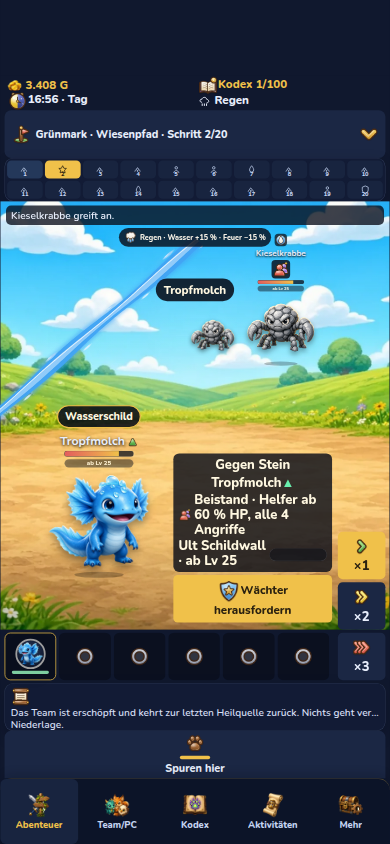
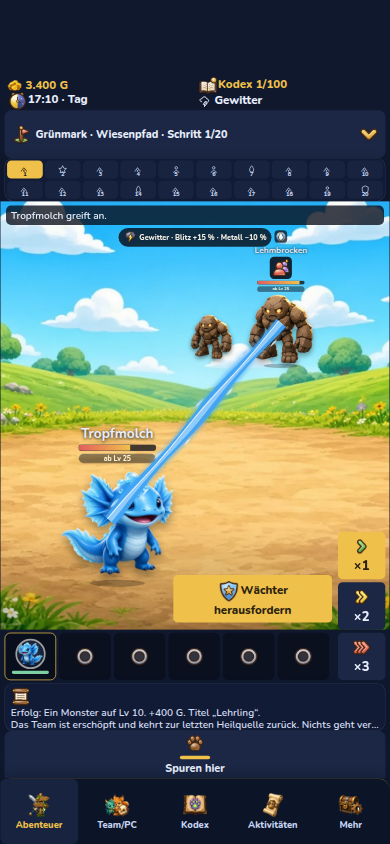
Kampf K7: Messung auf der Wächterstufe, Karte aus dem Kampf.
Die neue Stichprobe endet durch K.o., nicht an der Aktionsgrenze. Die Vorschau steht in eigenen Zeilen und bleibt während des Kampfes vom Feld.

diff --git a/src/adventure/mech.test.ts b/src/adventure/mech.test.ts
@@ -4,6 +4,7 @@ import { mulberry32 } from '../rng'
 import { fight1v1, type FightHit, type FightSide, type FightTrace } from './battle'
 import { ENCOUNTER_MS } from './const'
 import { assignMechs, councilAssignment, guardianAssignment, MECHS } from './mech'
+import { orderMods } from './order'
 import { regions } from './route'
 import { beginAdventure } from './save'
 import { monStats } from './stats'
@@ -124,41 +125,111 @@ describe('boss mechanics', () => {
   })
 })
 
-function sample(allyLevel: number, foeLevel: number, scale: number, mechs: FightSide['mechs'], trials: number): { wins: number; frames: number } {
-  let wins = 0
-  let frames = 0
-  for (let seed = 1; seed <= trials; seed++) {
-    const allyStats = monStats({ species: 'm02', lvl: allyLevel, exp: 0, hp: null, shiny: false, caughtAt: 0, caughtWhere: '', keepDupes: false })
-    const foeStats = monStats({ species: 'm17', lvl: foeLevel, exp: 0, hp: null, shiny: false, caughtAt: 0, caughtWhere: '', keepDupes: false })
-    const ally = side('m02', allyLevel, { maxHp: allyStats.hp, hp: allyStats.hp, atk: allyStats.atk, def: allyStats.def, spd: allyStats.spd, skill: species('m02').skill })
-    const foe = side('m17', foeLevel, {
-      maxHp: Math.round(foeStats.hp * scale),
-      hp: Math.round(foeStats.hp * scale),
-      atk: Math.round(foeStats.atk * scale),
-      def: Math.round(foeStats.def * scale),
-      spd: foeStats.spd,
-      skill: species('m17').skill,
-      boss: true,
-      mechs
-    })
-    const trace = fight1v1(ally, foe, mulberry32(seed), true)
-    if (trace.win) wins += 1
-    frames += trace.frames.length
+const SCALE = { hp: 1.4, atk: 1.34, def: 1.4 }
+const WARDEN = [
+  { species: 'm17', level: 7 },
+  { species: 'm04', level: 8 },
+  { species: 'm18', level: 10 }
+]
+
+function actor(id: string, level: number, scale = { hp: 1, atk: 1, def: 1 }, mechs?: FightSide['mechs'], hpFrac = 1): FightSide {
+  const sp = species(id)
+  const stats = monStats({ species: id, lvl: level, exp: 0, hp: null, shiny: false, caughtAt: 0, caughtWhere: '', keepDupes: false })
+  const maxHp = Math.max(1, Math.round(stats.hp * scale.hp))
+  return {
+    speciesId: id, name: sp.name, type: sp.type, maxHp,
+    hp: Math.max(1, Math.round(maxHp * (hpFrac > 0 ? hpFrac : 1))),
+    atk: Math.max(1, Math.round(stats.atk * scale.atk)),
+    def: Math.max(1, Math.round(stats.def * scale.def)),
+    spd: stats.spd, skill: sp.skill, passive: sp.passive ?? null, level,
+    boss: scale.hp !== 1 || Boolean(mechs?.length), mechs
   }
-  return { wins, frames }
+}
+
+function runBench(ids: string[], level: number, mechs: FightSide['mechs'], rng: () => number): { clear: boolean; bouts: Array<'win' | 'ko' | 'timeout'> } {
+  const alive = ids.map(() => true)
+  const bouts: Array<'win' | 'ko' | 'timeout'> = []
+  let foeIndex = 0
+  let fraction = 1
+  let afterKo = false
+  let guard = 0
+  while (foeIndex < WARDEN.length && guard < 24) {
+    guard += 1
+    const fighter = alive.findIndex(Boolean)
+    if (fighter < 0) return { clear: false, bouts }
+    const foe = WARDEN[foeIndex]
+    const seats = ids.map((id, index) => ({ uid: String(index), type: species(id).type, alive: alive[index] }))
+    const mods = orderMods(seats, String(fighter), species(foe.species).type, afterKo)
+    const ally = actor(ids[fighter], level)
+    ally.atk = Math.max(1, Math.round(ally.atk * mods.atkMul))
+    ally.def = Math.max(1, Math.round(ally.def * mods.defMul))
+    ally.counter = mods.counter
+    ally.anchor = mods.anchor
+    const trace = fight1v1(ally, actor(foe.species, foe.level, SCALE, mechs, fraction), rng, false)
+    const kind = bucket(trace)
+    bouts.push(kind)
+    const advance = kind === 'win' || (kind === 'timeout' && trace.win)
+    if (advance) {
+      foeIndex += 1
+      fraction = 1
+      afterKo = false
+    } else {
+      alive[fighter] = false
+      fraction = trace.foeMax > 0 ? Math.max(0.01, trace.foeHp / trace.foeMax) : 1
+      afterKo = true
+    }
+  }
+  return { clear: foeIndex >= WARDEN.length, bouts }
+}
+
+function bucket(trace: FightTrace): 'win' | 'ko' | 'timeout' {
+  if (trace.timeout) return 'timeout'
+  if (trace.win) return 'win'
+  return 'ko'
+}
+
+const BENCH = ['m66', 'm11', 'm14', 'm61', 'm03', 'm72']
+
+function tallyOne(mechs: FightSide['mechs'], trials: number): { win: number; ko: number; timeout: number } {
+  const out = { win: 0, ko: 0, timeout: 0 }
+  for (let seed = 1; seed <= trials; seed++) {
+    const trace = fight1v1(actor('m61', 12), actor('m17', 7, SCALE, mechs), mulberry32(seed), false)
+    out[bucket(trace)] += 1
+  }
+  return out
+}
+
+function tallyBench(mechs: FightSide['mechs'], trials: number): { sieg: number; ko: number; timeout: number } {
+  const out = { sieg: 0, ko: 0, timeout: 0 }
+  for (let seed = 1; seed <= trials; seed++) {
+    const run = runBench(BENCH, 12, mechs, mulberry32(seed))
+    if (run.bouts.some((kind) => kind === 'timeout')) out.timeout += 1
+    else if (run.clear) out.sieg += 1
+    else out.ko += 1
+  }
+  return out
 }
 
 describe('boss mechanic sample', () => {
-  it('records the close fight: Tropfmolch 25 against Kieselkrabbe 25 at scale 1.4', () => {
-    const trials = 200
-    const plain = sample(25, 25, 1.4, undefined, trials)
-    const rows = Object.fromEntries(MECHS.map((id) => [id, sample(25, 25, 1.4, [id], trials)]))
-    expect(plain.wins).toBe(78)
-    expect(plain.frames).toBe(6400)
-    expect(rows.panzerung).toEqual({ wins: 3, frames: 6400 })
-    expect(rows.wut).toEqual({ wins: 78, frames: 6400 })
-    expect(rows.beistand).toEqual({ wins: 52, frames: 6780 })
-    expect(rows.puls).toEqual({ wins: 41, frames: 6791 })
-    expect(rows.spiegel).toEqual({ wins: 9, frames: 6400 })
+  it('measures the cap fight and the ordered bench', () => {
+    const trials = 500
+    const one: Record<string, { win: number; ko: number; timeout: number }> = { none: tallyOne(undefined, trials) }
+    const bench: Record<string, { sieg: number; ko: number; timeout: number }> = { none: tallyBench(undefined, trials) }
+    for (const id of MECHS) {
+      one[id] = tallyOne([id], trials)
+      bench[id] = tallyBench([id], trials)
+    }
+    expect(one.none).toEqual({ win: 463, ko: 37, timeout: 0 })
+    expect(one.panzerung).toEqual({ win: 10, ko: 490, timeout: 0 })
+    expect(one.wut).toEqual({ win: 187, ko: 313, timeout: 0 })
+    expect(one.beistand).toEqual({ win: 454, ko: 46, timeout: 0 })
+    expect(one.puls).toEqual({ win: 379, ko: 121, timeout: 0 })
+    expect(one.spiegel).toEqual({ win: 24, ko: 476, timeout: 0 })
+    expect(bench.none).toEqual({ sieg: 500, ko: 0, timeout: 0 })
+    expect(bench.panzerung).toEqual({ sieg: 401, ko: 99, timeout: 0 })
+    expect(bench.wut).toEqual({ sieg: 499, ko: 1, timeout: 0 })
+    expect(bench.beistand).toEqual({ sieg: 500, ko: 0, timeout: 0 })
+    expect(bench.puls).toEqual({ sieg: 500, ko: 0, timeout: 0 })
+    expect(bench.spiegel).toEqual({ sieg: 500, ko: 0, timeout: 0 })
   })
 })

diff --git a/src/adventure/view.ts b/src/adventure/view.ts
@@ -47,7 +47,7 @@ import { fruitDef, fruitMinutes } from './shop'
 import { teamWeatherMarks, weatherArrow, weatherForecast, weatherName, WEATHER_SHIFTS, type WeatherId } from './weather'
 import { typeArrow } from './order'
 import { councilAssignment, guardianAssignment, mechIcon, mechName, mechTip, type MechId } from './mech'
-import { ultName, ultPattern, ultUnlocked } from './ult'
+import { ultName, ultPattern } from './ult'
 import { FACES, MULTIPLIERS, PRIZES, faceById, spinCost, wheelOpen, type Multiplier, type SymbolId } from './wheel'
 import { expToNext, isAlive, monStats, realHp } from './stats'
 import type { OfflineSummary } from './sim'
@@ -95,6 +95,8 @@ export type Overlay =
 export interface ShellFlags {
   mapOpen?: boolean
   moreOpen?: boolean
+  /** A fight is on screen. The preview card stays off the field. */
+  fighting?: boolean
   /** Scroll offset of the PC viewport, in logical px. */
   pcScroll?: number
   /** Measured PC viewport height. 0 uses the fallback. */
@@ -246,7 +248,7 @@ function path(save: SaveV2, here: number): string {
   return pathNodes(cells, false)
 }
 
-function battle(save: SaveV2, now: number): string {
+function battle(save: SaveV2, now: number, fighting = false): string {
   const chapter = chapterById(save.region, save.chapter)
   const scene = SCENE_FILES[chapter.scene]
   const active = save.active && save.mons[save.active] ? save.active : save.team[0]
@@ -300,7 +302,7 @@ function battle(save: SaveV2, now: number): string {
       <div class="wx-stack"><div class="wx-chip" id="wx-chip">${weatherChip(save, now)}</div></div>
       ${bossAhead(save) ? `<p class="wx-preview">${esc(weatherPreview(save, now))}</p>` : ''}
     </div>
-    ${sealed ? '' : `<div class="guard-dock">${guardCard(save)}<button type="button" class="primary challenge-fab" data-act="challenge">${ui('challenge')}${tr(save, chapter.council || chapter.foyer ? 'battle.resume' : 'battle.challenge')}</button></div>`}
+    ${sealed ? '' : `<div class="guard-dock">${fighting ? '' : guardCard(save)}<button type="button" class="primary challenge-fab" data-act="challenge">${ui('challenge')}${tr(save, chapter.council || chapter.foyer ? 'battle.resume' : 'battle.challenge')}</button></div>`}
   </div>`
 }
 
@@ -374,7 +376,7 @@ function guardCard(save: SaveV2): string {
   }).join('')
   const lead = bossLead(save)
   const preview = lead ? bossPreview(lead.speciesId, lead.level, lead.mechs) : ''
-  return `<div class="guard-card"><b>Gegen ${esc(typeName(foeType))}</b>${bits}${preview}</div>`
+  return `<div class="guard-card"><div class="guard-title">Gegen ${esc(typeName(foeType))}</div><div class="guard-names">${bits}</div>${preview}</div>`
 }
 
 function bossLead(save: SaveV2): { speciesId: string; level: number; mechs: MechId[] } | null {
@@ -397,12 +399,9 @@ function bossLead(save: SaveV2): { speciesId: string; level: number; mechs: Mech
   return { speciesId: lead.species, level: lead.level, mechs: guardianAssignment(chapter.guardian.badge, chapter.guardian.name, Boolean(chapter.special)) }
 }
 
-function bossPreview(speciesId: string, level: number, mechs: MechId[]): string {
-  const lines = mechs.map((id) => `<span class="mech-line"><img src="${art(mechIcon(id))}" alt=""/><span>${esc(mechName(id))} · ${esc(mechTip(id))}</span></span>`).join('')
-  const open = ultUnlocked(level)
-  const bar = `<span class="ult${open ? '' : ' is-locked'}" data-n="${open ? 5 : 0}"></span>`
-  const lock = open ? '' : ' · ab Lv 25'
-  return `${lines}<span class="mech-line"><span>Ult ${esc(ultName(ultPattern(speciesId)))}${lock}</span>${bar}</span>`
+function bossPreview(speciesId: string, _level: number, mechs: MechId[]): string {
+  const lines = mechs.map((id) => `<div class="mech-line"><img src="${art(mechIcon(id))}" alt=""/><span><b>${esc(mechName(id))}</b>${esc(mechTip(id))}</span></div>`).join('')
+  return `${lines}<div class="guard-ult"><div>Boss-Ult: ${esc(ultName(ultPattern(speciesId)))}</div><span class="ult" data-n="0"></span></div>`
 }
 
 function weatherPreview(save: SaveV2, now: number): string {
@@ -1010,7 +1009,7 @@ export function gameHtml(save: SaveV2, screen: Screen, now: number, pc: PcQuery,
         ${adventure ? chapterLine(save, step, mapOpen) : ''}
         ${adventure ? path(save, step) : ''}
       </div>
-      <div class="anchor anchor-mid">${adventure ? battle(save, now) : center(save, screen, now, pc, dex, selected, debug, wheel, shell)}</div>
+      <div class="anchor anchor-mid">${adventure ? battle(save, now, shell.fighting) : center(save, screen, now, pc, dex, selected, debug, wheel, shell)}</div>
       <div class="anchor anchor-bot">
         ${adventure ? teamDock(save) : ''}
         ${adventure ? logBox(save) : ''}

diff --git a/src/adventure/adventure.css b/src/adventure/adventure.css
@@ -360,25 +360,32 @@ textarea { width: 100%; box-sizing: border-box; background: #121a30; color: inhe
   width: 440px; max-width: 440px; pointer-events: auto;
 }
 .guard-card {
-  box-sizing: border-box; display: flex; flex-wrap: wrap; justify-content: center;
-  align-items: center; gap: 4px 16px; padding: 10px 14px; border-radius: 16px;
-  background: rgba(8, 12, 24, 0.82); color: #fff8e1; font-weight: 800; font-size: 36px; line-height: 1.25;
+  box-sizing: border-box; display: flex; flex-direction: column; align-items: stretch;
+  gap: 8px; padding: 12px 14px; border-radius: 16px;
+  background: rgba(8, 12, 24, 0.82); color: #fff8e1; font-weight: 800; font-size: 36px; line-height: 1.2;
 }
+.guard-title, .guard-names, .guard-ult { text-align: center; }
+.guard-names { display: flex; flex-wrap: wrap; justify-content: center; gap: 4px 14px; }
 .guard-card .up { color: #69f0ae; }
 .guard-card .down { color: #ff5252; }
 .guard-card .mech-line {
-  display: flex; align-items: center; justify-content: center; gap: 8px;
-  width: 100%; font-size: 36px; line-height: 1.15; text-align: left;
+  display: flex; align-items: flex-start; gap: 8px; width: 100%; text-align: left;
 }
 .guard-card .mech-line img { width: 36px; height: 36px; object-fit: contain; flex: 0 0 auto; }
-.guard-card .ult { width: 160px; height: 36px; flex: 0 0 auto; }
-.guard-card .ult.is-locked { height: 36px; }
+.guard-card .mech-line span { display: flex; flex-direction: column; align-items: flex-start; gap: 2px; }
+.guard-card .mech-line b { line-height: 1.1; }
+.guard-ult { display: flex; flex-direction: column; align-items: stretch; gap: 8px; }
+.guard-card .ult {
+  width: 100%; height: 36px; margin: 0;
+  background: rgba(255, 255, 255, 0.16);
+  box-shadow: inset 0 0 0 2px rgba(255, 213, 79, 0.9);
+}
 .guard-card .ult.is-locked::after { content: none; }
 .mech-row {
   display: flex; gap: 6px; justify-content: center; margin: 0 0 6px;
-  padding: 4px; border-radius: 14px; background: rgba(8, 12, 24, 0.82);
+  padding: 6px; border-radius: 16px; background: rgba(8, 12, 24, 0.88);
 }
-.mech-row img { width: 64px; height: 64px; object-fit: contain; }
+.mech-row img { width: 72px; height: 72px; object-fit: contain; }
 .combatant .helper {
   position: absolute; height: 180px; width: auto; right: 112%; bottom: 20px;
   pointer-events: none; filter: drop-shadow(0 8px 8px rgba(0, 0, 0, 0.45));

diff --git a/src/adventure/app.ts b/src/adventure/app.ts
@@ -181,6 +181,10 @@ export function bootAdventure(): void {
 
   const params = new URLSearchParams(window.location.search)
   const fxDemo = params.get('fx')
+  if (debug && fxDemo === 'k7') {
+    showK7Demo(params.get('part'))
+    return
+  }
   if (debug && fxDemo === 'k6') {
     showK6Demo(params.get('part'))
     return
@@ -277,6 +281,32 @@ function showFxDemo(kind: 'fire' | 'hit' | 'ko', requested: string | null = null
 }
 
 const REGION_TINT = [0x7dcea0, 0x7dcea0, 0x9ad7ff, 0xff8a3d, 0x7e57c2, 0xf0c14a]
+
+function showK7Demo(part: string | null): void {
+  const kind = part === 'kampf' ? 'kampf' : part === 'vorschau' ? 'vorschau' : 'before'
+  save = beginAdventure('Ada', 'A', 'm01', Date.now())
+  const lead = save.active
+  if (lead && save.mons[lead]) save.mons[lead].lvl = kind === 'kampf' ? 12 : 25
+  if (kind === 'vorschau') {
+    const water = `a${save.nextId}`
+    save.nextId += 1
+    save.mons[water] = { species: 'm02', lvl: 25, exp: 0, hp: null, shiny: false, caughtAt: 1, caughtWhere: 'r1c1', keepDupes: false }
+    save.team.push(water)
+    save.dex.m02 = { seen: 1, caught: 1 }
+  }
+  if (kind === 'kampf' && lead && save.mons[lead]) save.mons[lead].species = 'm02'
+  save.settings.speed = 1
+  save.settings.reduceMotion = true
+  if (kind === 'kampf') {
+    challengeGuardian(save)
+    void start(save)
+    return
+  }
+  screen = 'adventure'
+  render()
+  document.querySelector('#foe-actor .hp')?.setAttribute('hidden', '')
+  document.getElementById('foe-ult')?.setAttribute('hidden', '')
+}
 
 function showK6Demo(part: string | null): void {
   const kind = part === 'konter' ? 'konter' : part === 'karte' ? 'karte' : 'before'
@@ -551,7 +581,7 @@ function render(step = save?.step): void {
     mult: wheelMult,
     symbols: wheelSymbols,
     note: wheelNote
-  }, { mapOpen, moreOpen, pcScroll, filtersOpen, dexOpen, shopTab, shopHint: Date.now() < shopFlashUntil }))
+  }, { mapOpen, moreOpen, pcScroll, filtersOpen, dexOpen, shopTab, shopHint: Date.now() < shopFlashUntil, fighting: animating }))
   if (screen === 'team') {
     pcIds = visiblePc(save, pc)
     const view = document.getElementById('pc-viewport')

diff --git a/docs/k7-boss.md b/docs/k7-boss.md
@@ -16,15 +16,32 @@ Ein Angriff für Puls und Beistand ist ein Schlag, eine schadensbringende Fertig
 
 ## Messung
 
-200 Kämpfe, Samen 1 bis 200. Tropfmolch Stufe 25 gegen Kieselkrabbe Stufe 25, Boss-Skala 1,4 auf HP, ATK und DEF. Ohne Mechanik 78 Siege (39 %). Fast jeder Kampf läuft in die Grenze von 32 Aktionen, der Sieg ist dann der höhere HP-Anteil.
+Die empfohlene Stufe ist die Kapitel-Obergrenze. Für den Wiesenpfad ist das Stufe 12. Der Wächter steht mit seinen eigenen Stufen und der Skala 1,4 / 1,34 / 1,4 da. 500 Kämpfe, Samen 1 bis 500. Ein Sieg ist ein K.o. des Bosses. Eine Niederlage ist ein eigener K.o. Ein Timeout ist die Grenze von 30 Aktionen, auch wenn danach noch HP übrig sind. Die Werte aus B5 bleiben unverändert.
 
-| Mechanik | Siege | Abstand | Mittlere Aktionen |
-|---|---|---|---|
-| keine | 78 | | 32,00 |
-| Panzerung | 3 | −37,5 Punkte | 32,00 |
-| Wut | 78 | 0 | 32,00 |
-| Beistand | 52 | −13,0 Punkte | 33,90 |
-| Puls | 41 | −18,5 Punkte | 33,96 |
-| Spiegel | 9 | −34,5 Punkte | 32,00 |
+### Ein Kämpfer
 
-Panzerung, Beistand, Puls und Spiegel drücken die Siegquote in diesem engen Kampf um mehr als 10 Punkte. Die Werte aus B5 bleiben unverändert. Wut verschiebt hier nichts, weil der Kampf an der Aktionsgrenze endet, bevor die 40-%-Schwelle den Ausgang dreht. Beistand und Puls verlängern den Kampf um die Extra-Treffer.
+Raufkänguru, Stufe 12, Typ Kampf, stark gegen Stein. Gegner ist die Kieselkrabbe, Stufe 7, der erste Wächter. Ohne Mechanik 463 Siege (92,6 %), 37 K.o.-Niederlagen, kein Timeout. Stufe 11 fällt auf etwa 21 %. Dazwischen gibt es keine ganzzahlige Stufe im Fenster 70–85 %. Deshalb bleibt die Obergrenze der Messpunkt: die Kämpfe enden wirklich, nicht an der Grenze.
+
+| Mechanik | Sieg | K.o. | Timeout | Abstand |
+|---|---|---|---|---|
+| keine | 463 | 37 | 0 | |
+| Panzerung | 10 | 490 | 0 | −90,6 Punkte |
+| Wut | 187 | 313 | 0 | −55,2 Punkte |
+| Beistand | 454 | 46 | 0 | −1,8 Punkte |
+| Puls | 379 | 121 | 0 | −16,8 Punkte |
+| Spiegel | 24 | 476 | 0 | −87,8 Punkte |
+
+### Sechser-Team in Reihenfolge
+
+Dieselben Wächter, drei Monster, der Boss behält nach einem K.o. seine HP. Das Team steht auf Stufe 12 in dieser Reihenfolge: Wühlmaus, Surrlibelle, Sumpfunke, Raufkänguru, Knospling, Sonnenküken. Vorhut, Konter und Schlussmann gelten. Ein Lauf zählt als Timeout, sobald ein einzelner Kampf die Grenze trifft.
+
+| Mechanik | Sieg | K.o. | Timeout | Abstand |
+|---|---|---|---|---|
+| keine | 500 | 0 | 0 | |
+| Panzerung | 401 | 99 | 0 | −19,8 Punkte |
+| Wut | 499 | 1 | 0 | −0,2 Punkte |
+| Beistand | 500 | 0 | 0 | 0 |
+| Puls | 500 | 0 | 0 | 0 |
+| Spiegel | 500 | 0 | 0 | 0 |
+
+Panzerung, Wut, Puls und Spiegel drücken den einzelnen typstarken Kampf um mehr als 10 Punkte. Im vollen Team bleibt davon nur die Panzerung über 10 Punkten. Beistand ändert den einzelnen Kampf kaum und das Team gar nicht. Kein Lauf in dieser Messung endet an der Aktionsgrenze.
